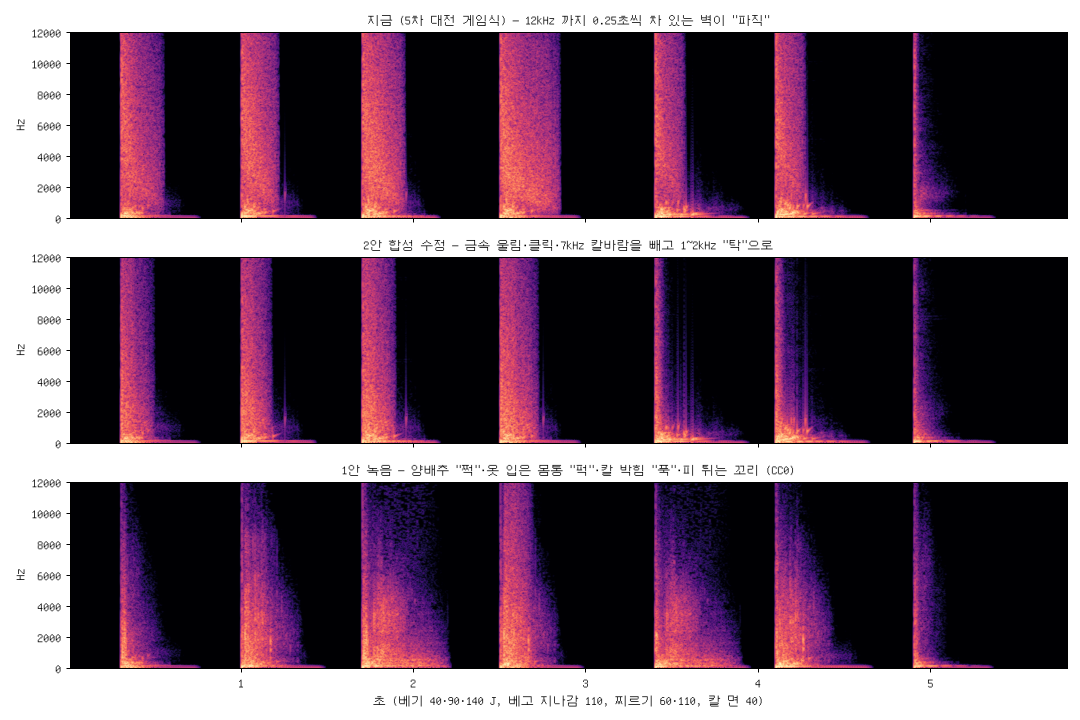
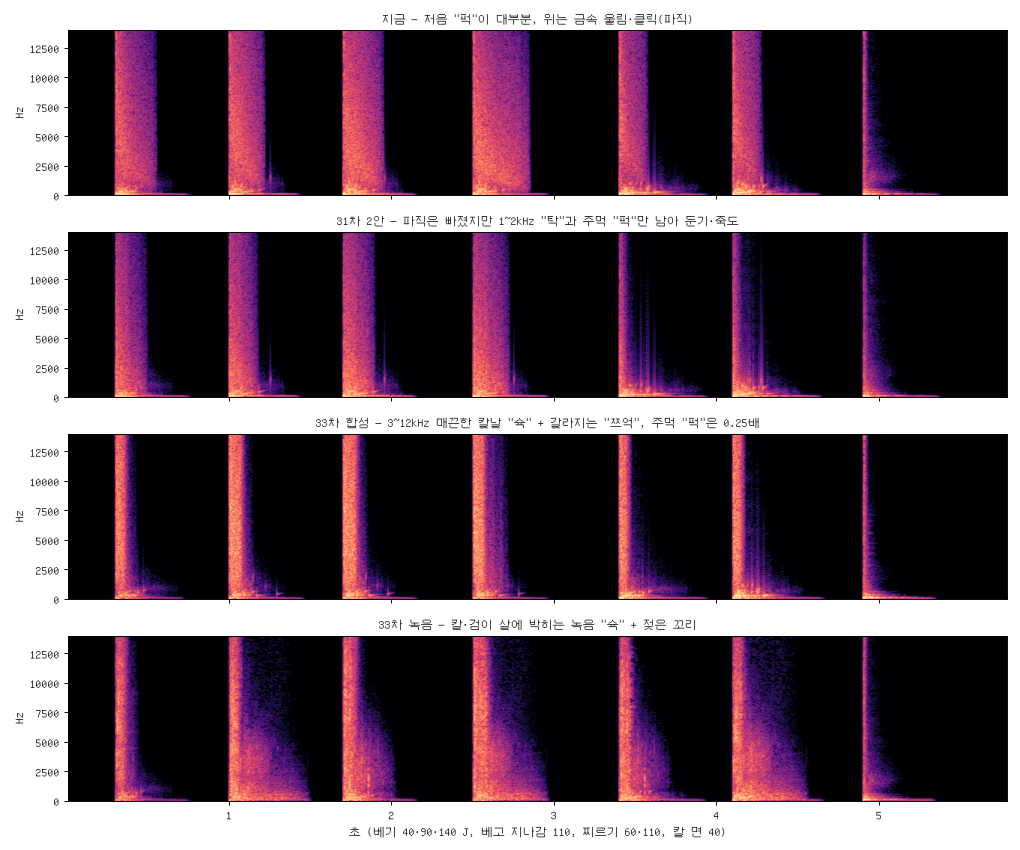
Sound: sword-on-body candidates redone as a sharp blade (owner: round-31 ones sounded like a club or a bamboo sword)
Why round 31 was duller than the current sound: every candidate kept the full punch
"body" layer (Kenney punch recording + cloth thump), the new contact was a 1-2 kHz tap
(the slap of a shinai or club), the recordings were chops and body hits, and the
sharpness check windowed a 0.85 s buffer with a Hann window, which all but erased the
attack. Measured on the first 150 ms without a window, round 31 had an A-weighted
centroid of 1.1-2.0 kHz against 2.9-3.5 kHz now.

Round 33 replaces both candidate paths (SOUND.fleshHit stays 'legacy' by default):
- 'synth': SYNTH.bladeCut — a smooth 1.5 kHz+ noise burst for the edge (3 ms attack,
  45-70 ms, centre falling 7 k -> 3 k, no clicks, ring or saturation), a wet parting
  tear at 0.9-2.2 kHz with irregular flutter, and a small 90-110 Hz tick.
- 'rec': blade-into-flesh recordings (flesh/edge1-5, CC0, 12 KB) over a quiet bladeCut
  and the wet tail.
In both the punch body layer drops to 0.25x (cut) / 0.3x (stab); the blunt hit is
back to the current sound. hitFlesh, sliceSoft and the six round-31 clips are removed.
The new attacks measure 4.2-5.4 kHz A-weighted centroid with the least click
kurtosis and ring of all; phone-band loudness is within 1 dB of now.

Sims byte-identical to main a96cba3; browser smoke: zero console errors; in-game all
three modes play with no errors.

Claude-Session: https://claude.ai/code/session_018mZ2Hqp8QUttYxEroMCesF

diff --git a/src/sound.js b/src/sound.js
@@ -942,47 +942,39 @@ export const SYNTH = {
   },
 
   /**
-   * 칼이 몸을 칠 때 (31차 2안 "합성 수정", 사장님 "전자 파리채로 모기 잡는 소리 같아"). hitSlash 에서 전기처럼 들리던 것을 뺐다:
-   *  3~7.5kHz 금속 "징" 울림, 딱딱 튀는 클릭, 2.5kHz 위 파열, 7kHz 칼바람, 세게 누른 찌그러짐.
-   *  남긴 것: 1~1.8kHz 에서 닿는 "탁" + 누비옷·살이 눌리는 700Hz 아래 "퍽" + (베기) 2.4kHz→700Hz 로 짧게 가르는 "쓱" + 70~95Hz 저음.
-   * kind: 'cut' | 'stab' | 'blunt'(칼 면·손잡이)
+   * 날 선 칼이 살을 벰 (33차, 사장님: 31차 두 안이 "둔기나 죽도 소리 같다 — 고기가 날카로운 금속에 베이는 소리가 나야"). 세 겹:
+   *  1) 칼날 "슉": 1.5kHz 위의 매끈한 잡음 덩이 — 어택 3ms, 45~70ms 머물다 빠르게 사라지고 가운데가 7k→3k 로 내려간다.
+   *     날카로움은 여기서 나온다. 전기 "파직"의 원인(딱딱 튀는 클릭, 3~7kHz 금속 울림, 세게 누른 찌그러짐)은 넣지 않는다
+   *  2) 살이 갈라지는 "쯔억": 0.9~2.2kHz 잡음을 불규칙하게 떨어 젖은 결을 낸다 (8ms 뒤부터, 베고 지나가면 길게)
+   *  3) 작은 "툭": 90~110Hz 짧게 — 몽둥이·죽도처럼 치는 무게와 1~2kHz "팍"은 없다
+   * kind: 'cut' | 'stab'(짧고 좁게, 툭이 조금 더) | 'through'(베고 지나감: 갈라지는 소리를 길게)
    */
-  hitFlesh(sr, r, kind = 'cut') {
-    const n = Math.round(0.3 * sr);
+  bladeCut(sr, r, kind = 'cut') {
+    const stab = kind === 'stab';
+    const thru = kind === 'through';
+    const n = Math.round((thru ? 0.4 : 0.3) * sr);
     const out = new Float32Array(n);
-    const cut = kind === 'cut';
-    const blunt = kind === 'blunt';
-    const f0 = cut ? between(r, 1400, 1800) : blunt ? between(r, 800, 1100) : between(r, 1000, 1300);
-    noiseHit(out, sr, r, { t0: 0.001, amp: 1, attack: 0.0004, tau: blunt ? 0.006 : 0.008, type: 'bandpass', f: f0, q: 0.9 }); // 닿는 "탁"
-    noiseHit(out, sr, r, { t0: 0.002, amp: 0.9, attack: 0.001, tau: blunt ? 0.03 : 0.022, type: 'lowpass', f: between(r, 550, 750), q: 0.7 }); // 눌리는 "퍽"
-    if (!blunt) {
-      const L = Math.round((cut ? between(r, 0.12, 0.16) : 0.06) * sr);
-      const bp = new Filt('bandpass', 2400, 0.9, sr);
-      for (let i = 0; i < L && i < n; i++) {
-        const u = i / L;
-        if (i % 32 === 0) bp.set(2400 * Math.pow(700 / 2400, u), 0.9);
-        out[i] += (cut ? 0.35 : 0.2) * bp.run(r() * 2 - 1) * Math.min(1, i / (0.003 * sr)) * (1 - u) ** 1.5;
-      }
+    const E = Math.round((stab ? between(r, 0.035, 0.05) : between(r, 0.045, 0.07)) * sr);
+    const hp = new Filt('highpass', 1500, 0.7, sr);
+    const bp = new Filt('bandpass', 7000, 0.5, sr);
+    for (let i = 0; i < E + Math.round(0.03 * sr) && i < n; i++) {
+      const u = i / E;
+      if (i % 32 === 0) bp.set(7000 * Math.pow(3000 / 7000, Math.min(1, u)), 0.5);
+      const env = Math.min(1, i / (0.003 * sr)) * (u < 1 ? 1 - 0.3 * u : 0.7 * Math.exp(-(i - E) / (0.008 * sr)));
+      const x = r() * 2 - 1;
+      out[i] += (1.1 * hp.run(x) + 1.4 * bp.run(x)) * env;
     }
-    saturate(out, 1.5);
-    thumpTone(out, sr, { t0: 0.001, f0: between(r, blunt ? 60 : 70, blunt ? 80 : 95), drop: 0.8, dropTau: 0.01, attack: 0.001, tau: blunt ? 0.045 : 0.035, amp: blunt ? 1.1 : 0.85 });
-    return fadeOut(normalize(out, 0.95), sr, 0.05);
-  },
-
-  /** 칼날이 천·살을 가르고 지나감 "스윽" (31차 2안: slice 의 2.6kHz 틱 수천 개 "지직" 대신, 흔들리는 잡음을 1.8kHz→600Hz 로 쓸어내린다) */
-  sliceSoft(sr, r) {
-    const dur = between(r, 0.14, 0.2);
-    const L = Math.round(dur * sr);
-    const n = L + Math.round(0.04 * sr);
-    const out = new Float32Array(n);
-    const bp = new Filt('bandpass', 1800, 0.9, sr);
-    const am = wobble(r, sr, 35);
-    for (let i = 0; i < n; i++) {
-      const u = Math.min(1, i / L);
-      if (i % 32 === 0) bp.set(1800 * Math.pow(600 / 1800, u), 0.9);
-      const env = Math.min(1, i / (0.005 * sr)) * (i < L ? (1 - u) ** 0.9 : 0);
-      out[i] = bp.run(r() * 2 - 1) * env * (0.6 + 0.4 * Math.abs(am()));
+    const t0 = Math.round(0.008 * sr);
+    const P = Math.round((thru ? between(r, 0.18, 0.24) : stab ? between(r, 0.07, 0.1) : between(r, 0.09, 0.15)) * sr);
+    const f1 = thru ? 2200 : 1800;
+    const pb = new Filt('bandpass', f1, 0.8, sr);
+    const am = wobble(r, sr, 110);
+    for (let i = 0; i < P && t0 + i < n; i++) {
+      const u = i / P;
+      if (i % 32 === 0) pb.set(f1 * Math.pow(900 / f1, u), 0.8);
+      out[t0 + i] += 0.6 * pb.run(r() * 2 - 1) * Math.min(1, i / (0.004 * sr)) * (1 - u) ** 1.2 * (0.35 + 0.65 * Math.abs(am()));
     }
+    thumpTone(out, sr, { t0: 0.002, f0: between(r, 90, 110), drop: 0.5, dropTau: 0.01, attack: 0.001, tau: stab ? 0.03 : 0.022, amp: stab ? 0.3 : 0.18 });
     return fadeOut(normalize(out, 0.9), sr, 0.03);
   },
 
@@ -1480,10 +1472,9 @@ const BANK = [
   ['hitStab', 2, (sr, r) => SYNTH.hitSlash(sr, r, 'stab')],
   ['hitBlunt', 3, (sr, r) => SYNTH.hitSlash(sr, r, 'blunt')],
   ['hitArmor', 3, (sr, r) => SYNTH.hitSlash(sr, r, 'armor')],
-  ['hitFleshCut', 3, (sr, r) => SYNTH.hitFlesh(sr, r, 'cut')],
-  ['hitFleshStab', 2, (sr, r) => SYNTH.hitFlesh(sr, r, 'stab')],
-  ['hitFleshBlunt', 2, (sr, r) => SYNTH.hitFlesh(sr, r, 'blunt')],
-  ['sliceSoft', 2, SYNTH.sliceSoft],
+  ['bladeCut', 3, (sr, r) => SYNTH.bladeCut(sr, r, 'cut')],
+  ['bladeStab', 2, (sr, r) => SYNTH.bladeCut(sr, r, 'stab')],
+  ['bladeThrough', 2, (sr, r) => SYNTH.bladeCut(sr, r, 'through')],
   ['plateBreak', 2, SYNTH.plateBreak],
   ['swordLand', 3, SYNTH.swordLand],
   ['gunshot', 2, SYNTH.gunshot],
@@ -1534,10 +1525,8 @@ const SAMPLES = {
   crack: ['crack1'], // 나무 쪼개지는 "딱" → 뼈 부러지는 소리로 쓴다 (효과음에서 흔히 쓰는 방법)
   slide: ['slide1', 'slide2'], // 칼날이 미끄러지는 "스르릉"
   breath: ['breath/breath1'], // 피를 흘리는 내 숨 한 번: 들이쉬고 "후우" (Sadiquecat, CC0)
-  // 칼이 몸을 칠 때 1안 "녹음" (31차 후보, Freesound CC0 — 출처 public/sfx/LICENSE.txt). SOUND.fleshHit 이 'rec' 일 때만 쓴다
-  fleshCut: nums('flesh/cut', 2), // 칼이 누비옷·살을 가르는 "쩍" (양배추 내려찍기)
-  fleshCloth: nums('flesh/cloth', 2), // 옷 입은 몸통을 치는 "퍽"
-  fleshStab: nums('flesh/stab', 2), // 칼끝이 박히는 "푹"
+  // 칼이 몸을 칠 때 "녹음" 안 (33차 후보, Freesound CC0 — 출처 public/sfx/LICENSE.txt). SOUND.fleshHit 이 'rec' 일 때만 쓴다
+  fleshEdge: nums('flesh/edge', 5), // 날 선 칼이 살에 들어가는 매끈한 "슉" (칼·검 찌르기 녹음, 멜론 찌르기)
   fleshWet: nums('flesh/wet', 2), // 깊이 베였을 때 젖은 꼬리 (피 튀는 소리, 위를 3.5kHz 에서 닫음)
 };
 
@@ -2003,8 +1992,9 @@ export class Sound {
     this._hitScale = v;
   }
   /**
-   * 칼이 몸을 칠 때의 소리 (31차 후보, 사장님 "전자 파리채로 모기 잡는 소리 같아"): 'legacy' = 지금(5차 대전 게임식 hitSlash),
-   * 'synth' = 2안 합성 수정(hitFlesh·sliceSoft), 'rec' = 1안 녹음(flesh/*.mp3, 없으면 2안). 기본은 SOUND.fleshHit. 투구·판금 소리는 그대로
+   * 칼이 몸을 칠 때의 소리 (31·33차 후보, 사장님 "전자 파리채로 모기 잡는 소리 같아" → 31차 안은 "둔기·죽도 같다"): 'legacy' = 지금(5차 hitSlash),
+   * 'synth' = 날 선 칼 합성(bladeCut), 'rec' = 날 선 칼 녹음(flesh/edge*.mp3 + 젖은 꼬리, 없으면 합성). 기본은 SOUND.fleshHit.
+   * 베기·찌르기만 바뀐다. 칼 면(blunt)·투구·판금 소리는 그대로
    */
   get fleshHit() {
     return this._fleshHit ?? SOUND.fleshHit ?? 'legacy';
@@ -2014,18 +2004,17 @@ export class Sound {
   }
 
   /**
-   * 1안 "녹음": 칼이 몸에 닿는 층을 CC0 녹음으로 (베기 "쩍" / 찌르기 "푹") + 옷 입은 몸통 "퍽" + 깊으면 젖은 꼬리.
-   * 녹음이 아직 안 읽혔으면 false → 2안 합성으로 낸다
+   * 녹음 안(33차): 날 선 칼이 살에 들어가는 "슉" 녹음(fleshEdge) + 합성 bladeCut 의 갈라지는 "쯔억"·작은 "툭"을 조금 + 깊으면 젖은 꼬리.
+   * 녹음이 아직 안 읽혔으면 false → 합성으로 낸다
    */
-  _fleshRec(ev, kind, e, through, low) {
-    const contact = this.pickSample(kind === 'stab' ? 'fleshStab' : 'fleshCut');
-    if (!contact) return false;
-    this.layer(ev, contact, { gain: 0.9, rate: low * between(Math.random, 0.92, 1.05) });
-    const cloth = this.pickSample('fleshCloth');
-    if (cloth) this.layer(ev, cloth, { gain: kind === 'stab' ? 0.35 : 0.5, rate: low * between(Math.random, 0.9, 1.05), delay: 0.002 });
-    if (through) this.layer(ev, this.pick('sliceSoft'), { gain: 0.35, rate: low * between(Math.random, 0.8, 0.9), delay: 0.02 });
+  _fleshRec(ev, kind, e, low) {
+    const edge = this.pickSample('fleshEdge');
+    if (!edge) return false;
+    this.layer(ev, edge, { gain: 1.2, rate: low * (kind === 'stab' ? between(Math.random, 0.85, 0.95) : between(Math.random, 0.95, 1.08)) });
+    const syn = kind === 'stab' ? 'bladeStab' : kind === 'through' ? 'bladeThrough' : 'bladeCut';
+    this.layer(ev, this.pick(syn), { gain: 0.35, rate: low * between(Math.random, 0.95, 1.05), delay: 0.004 });
     const wet = e > 0.3 ? this.pickSample('fleshWet') : null;
-    if (wet) this.layer(ev, wet, { gain: 0.2 + 0.35 * e, rate: between(Math.random, 0.9, 1.05), delay: 0.01 });
+    if (wet) this.layer(ev, wet, { gain: 0.15 + 0.3 * e, rate: between(Math.random, 0.95, 1.1), delay: 0.012 });
     return true;
   }
 
@@ -2041,14 +2030,14 @@ export class Sound {
       this.layer(ev, this.pick('hitCut'), { gain: 1, rate: low * (through ? between(Math.random, 0.85, 0.92) : between(Math.random, 0.96, 1.06)) });
       // 천이 찢기며 살을 가르는 "지직"은 뒤에 작게
       this.layer(ev, this.pick('slice'), { gain: 0.3 + 0.2 * e, rate: low * (through ? between(Math.random, 0.72, 0.82) : between(Math.random, 0.9, 1.1)), delay: 0.01 });
-    } else if (!(mode === 'rec' && this._fleshRec(ev, 'cut', e, through, low))) {
-      // 2안: 닿는 "탁" + 눌리는 "퍽" + 짧게 가르는 "쓱" (금속 울림·클릭 없이). 베고 지나가면 "스윽"을 길게
-      this.layer(ev, this.pick('hitFleshCut'), { gain: 1, rate: low * (through ? between(Math.random, 0.88, 0.94) : between(Math.random, 0.96, 1.06)) });
-      this.layer(ev, this.pick('sliceSoft'), { gain: through ? 0.45 : 0.25 + 0.15 * e, rate: low * (through ? between(Math.random, 0.8, 0.9) : between(Math.random, 0.95, 1.1)), delay: 0.012 });
+    } else if (!(mode === 'rec' && this._fleshRec(ev, through ? 'through' : 'cut', e, low))) {
+      // 날 선 칼 합성: 매끈한 "슉" + 갈라지는 "쯔억" + 작은 "툭" (베고 지나가면 갈라지는 소리를 길게)
+      this.layer(ev, this.pick(through ? 'bladeThrough' : 'bladeCut'), { gain: 1, rate: low * between(Math.random, 0.95, 1.06) });
     }
     // 깊이 베인 큰 상처(e 높음)는 물컹한 크런치가 섞인 "젖은" 소리로
-    this.layer(ev, this.pick(e > 0.55 ? 'wetHeavy' : 'wet'), { gain: (mode === 'rec' ? 0.6 : 1) * (0.3 + 0.4 * e) * (1 + 0.3 * w), rate: between(Math.random, 0.85, 1.15), delay: 0.015 });
-    this.body(ev, (through ? 0.45 + 0.3 * e : 0.6 + 0.4 * e) * (1 + 0.5 * w), low);
+    this.layer(ev, this.pick(e > 0.55 ? 'wetHeavy' : 'wet'), { gain: (mode === 'legacy' ? 1 : 0.65) * (0.3 + 0.4 * e) * (1 + 0.3 * w), rate: between(Math.random, 0.85, 1.15), delay: 0.015 });
+    // 몸통 "퍽"(주먹 녹음 + 누비옷 쿵): 날 선 칼은 몽둥이처럼 몸을 밀지 않는다 → 새 안에서는 작게(0.25배). 이 층이 31차 안을 "둔기"로 들리게 했다
+    this.body(ev, (mode === 'legacy' ? 1 : 0.25) * (through ? 0.45 + 0.3 * e : 0.6 + 0.4 * e) * (1 + 0.5 * w), low);
     if (w > 0) this.layer(ev, this.pick('thump'), { gain: 0.8 * w, rate: 0.7 * low, delay: 0.004 }); // 무게(200 J 위): 묵직한 저음 한 겹
   }
 
@@ -2059,10 +2048,10 @@ export class Sound {
     const ev = this.event({ bus: this.fleshBus, gain: (0.45 + 0.6 * e ** 0.8) * (1 + 0.7 * w), prio: 2 });
     const mode = this.fleshHit;
     if (mode === 'legacy') this.layer(ev, this.pick('hitStab'), { gain: 1, rate: low * between(Math.random, 0.95, 1.05) }); // 대전 게임식 "챡-푹"
-    else if (!(mode === 'rec' && this._fleshRec(ev, 'stab', e, false, low))) this.layer(ev, this.pick('hitFleshStab'), { gain: 1, rate: low * between(Math.random, 0.95, 1.05) }); // 2안 "탁-푹"
-    this.body(ev, 0.85 * (1 + 0.5 * w), 0.85 * low);
-    this.layer(ev, this.pick('wet'), { gain: (mode === 'rec' ? 0.6 : 1) * (0.5 + 0.4 * e) * (1 + 0.3 * w), rate: low * between(Math.random, 0.7, 0.85), delay: 0.008 });
-    if (mode === 'legacy') this.layer(ev, this.pick('slice'), { gain: 0.3, rate: 1.3, delay: 0.004 }); // 천을 뚫는 짧은 "틱" (2안·1안에서는 뺀다 — "지직"의 한 원인)
+    else if (!(mode === 'rec' && this._fleshRec(ev, 'stab', e, low))) this.layer(ev, this.pick('bladeStab'), { gain: 1, rate: low * between(Math.random, 0.95, 1.05) }); // 날 선 칼 "슉-푹"
+    this.body(ev, (mode === 'legacy' ? 0.85 : 0.3) * (1 + 0.5 * w), 0.85 * low); // 찌르기는 칼끝이 몸을 조금 민다 — 베기보다는 크게
+    this.layer(ev, this.pick('wet'), { gain: (mode === 'legacy' ? 1 : 0.65) * (0.5 + 0.4 * e) * (1 + 0.3 * w), rate: low * between(Math.random, 0.7, 0.85), delay: 0.008 });
+    if (mode === 'legacy') this.layer(ev, this.pick('slice'), { gain: 0.3, rate: 1.3, delay: 0.004 }); // 천을 뚫는 짧은 "틱" (새 안에서는 뺀다 — "지직"의 한 원인)
     if (w > 0) this.layer(ev, this.pick('thump'), { gain: 0.8 * w, rate: 0.7 * low, delay: 0.004 }); // 무게(200 J 위): 묵직한 저음 한 겹
   }
 
@@ -2074,13 +2063,10 @@ export class Sound {
     const e = clamp01(energy / 120);
     const ev = this.event({ bus: this.fleshBus, gain: 0.12 + 0.95 * e ** 0.8, prio: 1.5 });
     // 대전 게임식 "퍽!": 짧게 터지는 때림 + 묵직한 저음 (칼끝이 스치는 약한 접촉은 작게만)
-    const mode = this.fleshHit;
-    const cloth = mode === 'rec' ? this.pickSample('fleshCloth') : null;
-    if (cloth) this.layer(ev, cloth, { gain: 0.5 + 0.5 * e, rate: between(Math.random, 0.9, 1.05) }); // 1안: 옷 입은 몸통 "퍽" 녹음
-    else this.layer(ev, this.pick(mode === 'legacy' ? 'hitBlunt' : 'hitFleshBlunt'), { gain: 0.5 + 0.6 * e, rate: between(Math.random, 0.94, 1.06) });
+    this.layer(ev, this.pick('hitBlunt'), { gain: 0.5 + 0.6 * e, rate: between(Math.random, 0.94, 1.06) });
     this.body(ev, 0.85);
-    // 세게 맞으면(칼 면으로 후려침) 칼도 짧게 울린다 (2안·1안은 조금 작게)
-    if (e > 0.2) this.layer(ev, this.pick('clashSoft'), { gain: (mode === 'legacy' ? 0.2 : 0.12) * e, rate: between(Math.random, 0.9, 1), delay: 0.003 });
+    // 세게 맞으면(칼 면으로 후려침) 칼도 짧게 울린다
+    if (e > 0.2) this.layer(ev, this.pick('clashSoft'), { gain: 0.2 * e, rate: between(Math.random, 0.9, 1), delay: 0.003 });
   }
 
   /**

diff --git a/src/soundlab.js b/src/soundlab.js
@@ -147,7 +147,7 @@ function withScale(s, v, fn) {
     s._hitScale = prev;
   }
 }
-// 칼→몸 소리 후보 (31차): 누르는 동안만 fleshHit 을 바꾼다. 게임은 SOUND.fleshHit
+// 칼→몸 소리 후보 (31·33차): 누르는 동안만 fleshHit 을 바꾼다. 게임은 SOUND.fleshHit
 function withFlesh(s, mode, fn) {
   const prev = s._fleshHit;
   s.fleshHit = mode;
@@ -168,7 +168,7 @@ const ROWS = [
   ['찌르기', '20 / 50 / 100 J', [20, 50, 100], (s, v) => s.stab(v)],
   ['타박 (칼 면·손잡이)', '10 / 35 / 100 J', [10, 35, 100], (s, v) => s.blunt(v)],
   ['뼈 (머리·팔·다리 베기)', '베기 + 뼈 80 / 130 / 200 J', [80, 130, 200], (s, v) => (s.cut(v, false), s.bone(v))],
-  ['칼→몸 소리 후보 (31차)', '1안 녹음 / 2안 합성 수정 / 지금 — 각각 베기 40·90·140, 베고 지나감 110, 찌르기 60·110, 칼 면 40 J 을 차례로', ['rec', 'synth', 'legacy'], (s, v) => withFlesh(s, v, () => {}) || FLESH_SCENE({ cut: (J, t) => withFlesh(s, v, () => s.cut(J, t)), stab: (J) => withFlesh(s, v, () => s.stab(J)), blunt: (J) => withFlesh(s, v, () => s.blunt(J)) }), ['1안 녹음', '2안 합성', '지금']],
+  ['칼→몸 소리 후보 (33차)', '날 선 칼 녹음 / 날 선 칼 합성 / 지금 — 각각 베기 40·90·140, 베고 지나감 110, 찌르기 60·110, 칼 면 40 J 을 차례로 (칼 면은 셋 다 같다)', ['rec', 'synth', 'legacy'], (s, v) => withFlesh(s, v, () => {}) || FLESH_SCENE({ cut: (J, t) => withFlesh(s, v, () => s.cut(J, t)), stab: (J) => withFlesh(s, v, () => s.stab(J)), blunt: (J) => withFlesh(s, v, () => s.blunt(J)) }), ['녹음', '합성', '지금']],
   ['세기 눈금 A/B: 베기', 'A 지금 / B 로그 무게 — 150 / 300 / 500 J (200 J 까지는 같다)', AB_VALS, (s, v) => withScale(s, v, (J) => s.cut(J, false)), AB_LABELS],
   ['세기 눈금 A/B: 찌르기', 'A 지금 / B 로그 무게 — 150 / 300 / 500 J', AB_VALS, (s, v) => withScale(s, v, (J) => s.stab(J)), AB_LABELS],
   ['세기 눈금 A/B: 강철 × 강철', 'A 지금 / B 로그 무게 — 150 / 300 / 500 J', AB_VALS, (s, v) => withScale(s, v, (J) => s.impact({ a: 'steel', b: 'steel', energy: J })), AB_LABELS],

diff --git a/src/config.js b/src/config.js
@@ -521,7 +521,7 @@ export const SOUND = {
   // 큰 타격에 반응하는 배경 소리(성 안뜰 종, 화로 불길, 비둘기·박쥐, 돌 부스러기, 검은 천, 단풍잎·풍경, 까마귀)의 같은 소리 최소 간격(초).
   // 사장님 9/29: "강한 타격이 나오면 재생되는 소리가 너무 자주 들려. 간격을 좀 두자" (30차). 타격음 자체에는 안 건다.
   stageHitGap: 10,
-  // 칼이 몸을 칠 때의 소리 (31차 후보, 사장님 "전자 파리채로 모기 잡는 소리 같아"): 'legacy' 지금 / 'synth' 2안 합성 수정 / 'rec' 1안 녹음.
+  // 칼이 몸을 칠 때의 소리 (31·33차 후보, 사장님 "전자 파리채로 모기 잡는 소리 같아"): 'legacy' 지금 / 'synth' 날 선 칼 합성 / 'rec' 날 선 칼 녹음.
   // 사장님이 고르시기 전까지 'legacy' (게임 소리 그대로). sounds.html "칼→몸 소리 후보" 에서 비교
   fleshHit: 'legacy',
 };

diff --git a/docs/handoff/sound_pm_handoff.md b/docs/handoff/sound_pm_handoff.md
@@ -70,7 +70,7 @@
 - **쓰러짐**: 골반·가슴이 초속 1m 넘게 떨어지다 땅 근처에서 멈추는 순간 낸다. 배경 바닥 알갱이 소리를 한 겹 더한다.
 - **세기 눈금** `hitWeight(energy, e0)` → `{ e, w, low }` (29차, 디렉터 R3 대비): `e` 는 지금 눈금(clamp01(energy/e0)), `w` 는 `hitScale` 이 'log' 일 때 200 J(`SOUND.hitKnee`) 위로 붙는 로그 무게(500 J = 1, 상한 없음), `low` 는 재생 속도 배율. 베기·찌르기·강철 충돌이 쓴다. `hitScale` 은 `SOUND.hitScale`(기본 'legacy' = 게임 소리 그대로) 또는 `sound.hitScale`. 새 타격 소리를 만들면 이 함수로 세기를 받는다.
 - **참수** `decapitate({me, pos})` / **떨어진 머리** `headLand(speed, {helmet, pos})` (32차): BodySounds 가 `f.decapitated` 와 `f.bodies.head` 를 보고 부른다. 참수면 죽음 목소리를 내지 않는다. `COMBAT_HOOKS.onDecapitate`(combat.js)는 쓰지 않는다(일꾼에 three.js 가 딸려 오지 않게).
-- **칼→몸 소리 후보** `SOUND.fleshHit` (31차, 사장님 "전자 파리채로 모기 잡는 소리 같아"): 'legacy'(5차 hitSlash, 지금) / 'synth'(2안 `hitFlesh`·`sliceSoft`) / 'rec'(1안 `public/sfx/flesh/` CC0 녹음, `_fleshRec`). 베기·찌르기·칼 면의 맨 앞 층만 바뀐다. 사장님 선택 대기.
+- **칼→몸 소리 후보** `SOUND.fleshHit` (31·33차, 사장님 "전자 파리채로 모기 잡는 소리 같아" → 31차 안은 "둔기·죽도 같다"): 'legacy'(5차 hitSlash, 지금) / 'synth'(날 선 칼 합성 `bladeCut`) / 'rec'(칼 박힘 녹음 `flesh/edge*` + 젖은 꼬리, `_fleshRec`). 베기·찌르기만 바뀌고 새 안에서는 몸통 "퍽"을 0.25~0.3배로 줄인다. 사장님 선택 대기.
 - **리볼버 총성** `gunshot({pos})` (30차, 사장님 "더 파괴력 있는 소리"): `SYNTH.gunshot`(크랙+몸통+충격파) + `SYNTH.gunTail`(바깥 메아리). gun.js `gunshotSound` 가 첫 줄에서 여기로 넘긴다. 꼬리는 `STAGE_SOUND.room` 유무로 정한다. 장전 소리는 gun.js 에 남아 있다.
 - **큰 타격 배경 소리 간격** `_spaced(key)` / `_hitCall(kind, k)` (30차, 사장님 "간격을 좀 두자"): 같은 소리는 `SOUND.stageHitGap`(10초) 안에 다시 안 낸다 — gust 의 불길·천·돌·비둘기·박쥐·단풍잎·풍경, 성 안뜰 종, 화전 터 까마귀. 타격음에는 안 건다. 새 배경 반응 소리를 넣으면 `_hitCall` 로 부른다.
 - **디딤** `footStrike(strength 0~1, pos)` (29차): 지나는 걸음의 무거운 딛기. 디렉터가 gait 딛는 순간에 잇는다(아직 안 부름).
@@ -152,7 +152,8 @@
 - **합성 동물 울음도 위험하다**: 말 울음(히히힝)은 오너가 뺐다. 콧바람·발굽처럼 바람·충격 소리만 남겼다.
 - **게임의 결은 "적막하고 고독한 대결"이다** (사장님, 2026-09-28):
   - 관중 함성은 넣지 않는다.
-  - **칼이 살에 맞는 소리에 금속 울림·높은 딱딱거림을 넣지 않는다**(9/30 "전자 파리채로 모기 잡는 소리 같아"). 5차 "둔탁하다"와 함께 보면: 닿는 순간은 또렷하게, 그러나 1~2kHz 의 "탁/퍽"으로. 쇠 울림은 투구·판금·칼끼리만.
+  - **칼이 살에 맞는 소리는 "날카로운 금속에 고기가 베이는 소리"**(9/30). 금속 울림·딱딱 튀는 클릭·세게 누른 찌그러짐은 전기 "파직"이 된다("전자 파리채"). 반대로 1~2kHz "탁"과 주먹 "퍽"만 남기면 "둔기·죽도"가 된다(31차). 날카로움은 3~12kHz 의 **매끈한** 칼날 "슉"(60ms 안팎)에서, 고기는 젖은 "쯔억"에서 낸다. 쇠 울림은 투구·판금·칼끼리만.
+  - 날카로움을 잴 때는 맞은 뒤 150ms 만, 창 없이(또는 A-가중으로) 잰다. 긴 구간에 한닝 창을 씌우면 맞는 순간이 지워져 판단을 그르친다(31차의 실수).
   - 흩어진 칼날·방어구 조각이 땅에 닿을 때마다 나는 소리는 넣지 않는다(25차, 사장님 "그럼 하지말자"). 대신 그 소리(`_shard`)를 **부서지는 순간**에 쓴다(26차, 사장님 "떨어질 때 쓰려고 만든 소리가 꽤 좋던데? 부서질 때 그걸 가져다 쓰자"). 사장님 확인: "일단 그렇게 해".
   - 소리는 드물고 가볍게 낸다. 기합("하앗")처럼 휘두를 때마다 나는 소리는 이 결을 깨므로 권하지 않는다.
   - 새 소리는 프레임·메모리·용량을 거의 쓰지 않아야 한다(사장님 조건).

diff --git a/docs/handoff/sound_pm_state.md b/docs/handoff/sound_pm_state.md
@@ -9,7 +9,7 @@
 
 ## 진행 중 / 끝남
 - [끝남] 32차(9/30): 참수 소리 — 절단감 `decapitate`(목소리 없음) + 떨어진 머리 `headLand`(맨머리/투구). BodySounds 로 연결, main.js 변경 없음. 그림 `decap_sound_before_after.png`.
-- [진행 중] 31차(9/30): 칼→몸 소리 후보 셋, 사장님 선택 대기.
+- [진행 중] 31→33차(9/30): 칼→몸 소리 후보. 31차 안은 사장님 "둔기·죽도 같다" → 33차에 날 선 칼 합성·녹음으로 다시 만들어 보냄. 사장님 선택 대기.
 - [끝남] 30차: 큰 타격 배경 소리 간격 `SOUND.stageHitGap` = 10초(`_spaced`; 종·불길·천·돌·새·박쥐·나뭇잎·풍경·까마귀). 타격음은 그대로.
 - [끝남] 30차: 리볼버 총성 `sound.gunshot` (.357/.44급, 무대 방 울림 + 바깥 메아리 꼬리). gun.js `gunshotSound` 첫 줄이 넘긴다. 전후 그림 `gunshot_before_after.png`. 사장님 내일 시험.
 - [끝남] 세기 눈금 준비: `sound.hitWeight(energy, e0)` — 베기·찌르기·강철 충돌 공통. `SOUND.hitScale`('legacy' 기본 = 지금 소리, 'log' = 200 J 위로 로그 무게). `sounds.html` "세기 눈금 A/B" 3행(150/300/500 J). 게임 호출은 안 바꿈.
@@ -17,7 +17,7 @@
 - [안 함] 총성 후보: 디렉터 보류(사장님이 원하실 때).
 
 ## 열린 요청 / 기다리는 것
-- (9/30 사장님 직접) 칼→몸 소리가 "전자 파리채 같다" → 31차 후보 셋(1안 녹음 'rec' / 2안 합성 'synth' / 지금 'legacy')을 `SOUND.fleshHit` 로 넣고(기본 'legacy', 게임 소리 그대로) 미리듣기 보냄. **사장님 선택 대기** → 고르면 기본값 바꾸고 안 고른 쪽 지움.
+- (9/30 사장님 직접) 칼→몸 소리: 33차 후보(녹음 'rec' / 합성 'synth' / 지금 'legacy', 기본 'legacy'). **사장님 선택 대기** → 고르면 기본값 바꾸고 안 고른 쪽 지움. 'rec' 을 고르면 Freesound 가 열릴 때 edge 원본 2개(399616, 344404) 페이지에서 CC0 를 다시 확인.
 - 화전 터(clearing) 소리: 사장님 실제 플레이 피드백 대기.
 - 총성·간격(30차): 사장님 내일 시험 → 피드백에 따라 `SOUND.stageHitGap`·`gunshot` gain/크랙 조정.
 - R3 에서 디렉터가 `sound.hitScale = 'log'`(또는 config `SOUND.hitScale`)로 넘기고, 타격 호출에 온몸 타격 에너지를 준다.
@@ -30,6 +30,7 @@
 - 들어보기: `sounds.html` (같은 vite). 오프라인 렌더는 `window.lab.render({dur, events:[{t, call, args}], samples:true, returnAudio:'b64', seed})`.
 
 ## 관문 (최근)
+- 33차: 시뮬 3종 main `a96cba3`와 바이트 동일, 스모크 콘솔 에러 0, 실제 게임 세 모드 에러 0.
 - 32차: 시뮬 3종 main `a96cba3`와 바이트 동일, 스모크 콘솔 에러 0, 실제 참수 4명(decap_shots 사본) 에러 0.
 - 31차: 시뮬 3종 main `63f6b94`와 바이트 동일, 스모크 콘솔 에러 0, 실제 게임 세 모드 에러 0.
 - 30차: 시뮬 3종 main `c9fc916`와 바이트 동일, 스모크 콘솔 에러 0, 실제 게임(성 안뜰·권총) 간격·총성 경로 확인.
